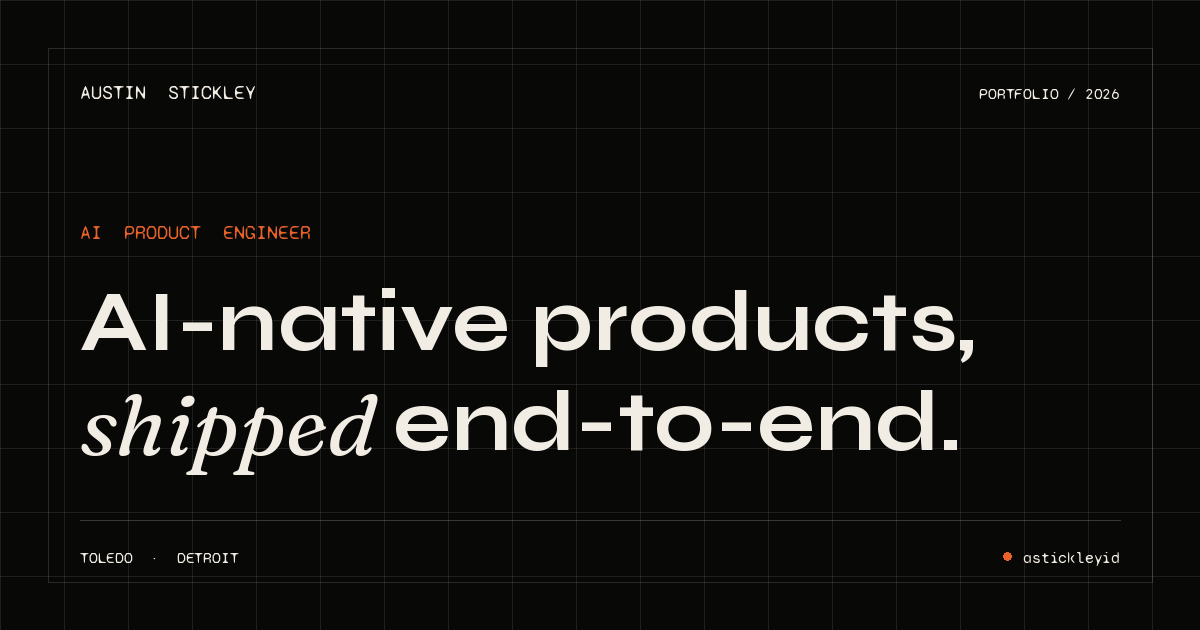
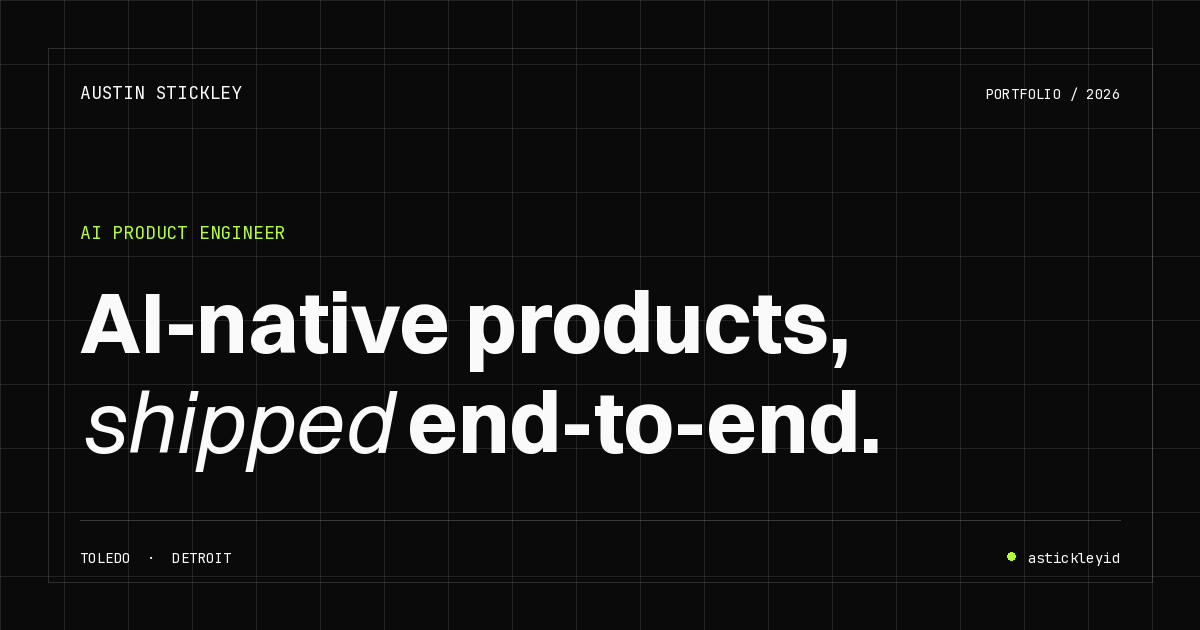
Swap to pure grayscale + electric lime accent, Switzer + JetBrains Mono
Per direct request: kill Warm Void, keep structure.

Color
- Pure neutral grayscale: bg #0A0A0A, ink #FAFAFA (no warm tones)
- Single electric lime accent #B5FE2C (was warm ember orange)
- Tightened accent usage: dots, hover/focus states, scroll progress only
- Live status text now neutral white (was lime) to keep accent minimal

Typography
- Switzer (Fontshare) replaces Syne for sans/display
- JetBrains Mono replaces Syne Mono for labels
- Italic emphasis: Switzer Italic at weight 500 (replaces Fraunces, more industrial/neutral)

Assets
- Regenerated 1200x630 og-image.png in new aesthetic
- Updated favicon.svg with neutral monogram + lime accent dot
- Updated theme-color and mask-icon color to lime

Structure unchanged: Hero, Index TOC, uniform flagship blocks, hairline work grid, Approach, Contact, SEO meta package — all preserved as requested.

diff --git a/src/styles.css b/src/styles.css
@@ -1,27 +1,40 @@
 /* ─────────────────────────────────────────────────────────────
-   Warm Void Design System — austinstickley
+   Pure Neutral Design System — austinstickley
+   Grayscale + electric lime accent
    Tokens · Type · Layout · Components
    ───────────────────────────────────────────────────────────── */
 
 :root {
-  /* Colour — neutral with single ember accent */
-  --void: #080806;
-  --void-2: #0c0a08;
-  --cream: #F2EDE4;
-  --cream-80: rgba(242, 237, 228, 0.80);
-  --cream-60: rgba(242, 237, 228, 0.60);
-  --cream-45: rgba(242, 237, 228, 0.45);
-  --cream-30: rgba(242, 237, 228, 0.30);
-  --cream-15: rgba(242, 237, 228, 0.15);
-  --rule:        rgba(242, 237, 228, 0.10);
-  --rule-strong: rgba(242, 237, 228, 0.20);
-  --ember: #E8622A;
-  --ember-soft: rgba(232, 98, 42, 0.14);
+  /* Colour — pure grayscale with single electric-lime accent */
+  --bg: #0A0A0A;
+  --bg-2: #111111;
+  --ink: #FAFAFA;
+  --ink-80: rgba(250, 250, 250, 0.80);
+  --ink-60: rgba(250, 250, 250, 0.60);
+  --ink-45: rgba(250, 250, 250, 0.45);
+  --ink-30: rgba(250, 250, 250, 0.30);
+  --ink-15: rgba(250, 250, 250, 0.15);
+  --rule:        rgba(250, 250, 250, 0.10);
+  --rule-strong: rgba(250, 250, 250, 0.20);
+  --accent: #B5FE2C;
+  --accent-soft: rgba(181, 254, 44, 0.14);
+
+  /* Legacy aliases — keep existing rules working */
+  --void: var(--bg);
+  --void-2: var(--bg-2);
+  --cream: var(--ink);
+  --cream-80: var(--ink-80);
+  --cream-60: var(--ink-60);
+  --cream-45: var(--ink-45);
+  --cream-30: var(--ink-30);
+  --cream-15: var(--ink-15);
+  --ember: var(--accent);
+  --ember-soft: var(--accent-soft);
 
   /* Typography */
-  --font-sans:    'Syne', system-ui, -apple-system, sans-serif;
-  --font-serif:   'Fraunces', Georgia, serif;
-  --font-mono:    'Syne Mono', ui-monospace, 'JetBrains Mono', monospace;
+  --font-sans:    'Switzer', system-ui, -apple-system, sans-serif;
+  --font-serif:   'Switzer', system-ui, sans-serif; /* italic emphasis maps here */
+  --font-mono:    'JetBrains Mono', ui-monospace, 'SFMono-Regular', monospace;
 
   /* Spacing — 4pt grid */
   --s-1: 4px;
@@ -121,7 +134,7 @@ h3 { font-size: clamp(20px, 2.2vw, 28px); font-weight: 600; }
 h4 { font-size: 15px; font-weight: 600; }
 
 p { margin: 0; color: var(--cream-80); text-wrap: pretty; }
-em { font-family: var(--font-serif); font-style: italic; font-weight: 400; }
+em { font-family: var(--font-serif); font-style: italic; font-weight: 500; }
 
 .eyebrow {
   font-family: var(--font-mono);
@@ -454,10 +467,10 @@ em { font-family: var(--font-serif); font-style: italic; font-weight: 400; }
   font-size: 10px;
   letter-spacing: 0.18em;
   text-transform: uppercase;
-  color: var(--cream-60);
+  color: var(--ink-45);
   text-align: right;
 }
-.live-panel__status--live { color: var(--ember); }
+.live-panel__status--live { color: var(--ink); }
 
 .live-panel__arrow {
   color: var(--cream-30);

diff --git a/index.html b/index.html
@@ -3,7 +3,7 @@
   <head>
     <meta charset="UTF-8" />
     <meta name="viewport" content="width=device-width, initial-scale=1.0" />
-    <meta name="theme-color" content="#080806" />
+    <meta name="theme-color" content="#0A0A0A" />
     <meta name="color-scheme" content="dark" />
 
     <!-- Primary -->
@@ -48,19 +48,20 @@
     <!-- Icons -->
     <link rel="icon" type="image/svg+xml" href="/favicon.svg" />
     <link rel="apple-touch-icon" href="/favicon.svg" />
-    <link rel="mask-icon" href="/favicon.svg" color="#E8622A" />
+    <link rel="mask-icon" href="/favicon.svg" color="#B5FE2C" />
 
     <!-- Fonts -->
+    <link rel="preconnect" href="https://api.fontshare.com" crossorigin />
+    <link rel="preconnect" href="https://cdn.fontshare.com" crossorigin />
     <link rel="preconnect" href="https://fonts.googleapis.com" />
     <link rel="preconnect" href="https://fonts.gstatic.com" crossorigin />
     <link
-      rel="preload"
-      as="style"
-      href="https://fonts.googleapis.com/css2?family=Syne:wght@500;600;700;800&family=Syne+Mono&family=Fraunces:ital,opsz,wght@1,9..144,400;1,9..144,500&display=swap"
+      rel="stylesheet"
+      href="https://api.fontshare.com/v2/css?f%5B%5D=switzer@400,401,500,501,600,601,700,701&display=swap"
     />
     <link
       rel="stylesheet"
-      href="https://fonts.googleapis.com/css2?family=Syne:wght@500;600;700;800&family=Syne+Mono&family=Fraunces:ital,opsz,wght@1,9..144,400;1,9..144,500&display=swap"
+      href="https://fonts.googleapis.com/css2?family=JetBrains+Mono:wght@400;500&display=swap"
     />
 
     <!-- JSON-LD: Person -->
